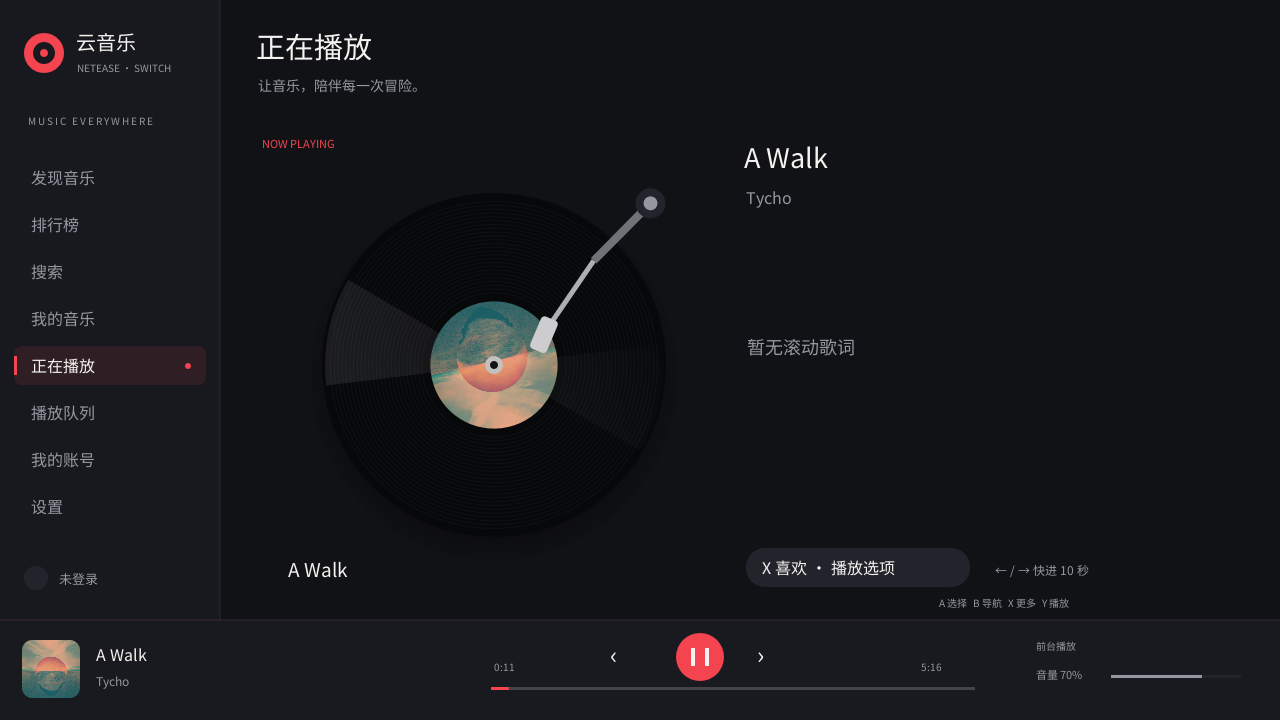
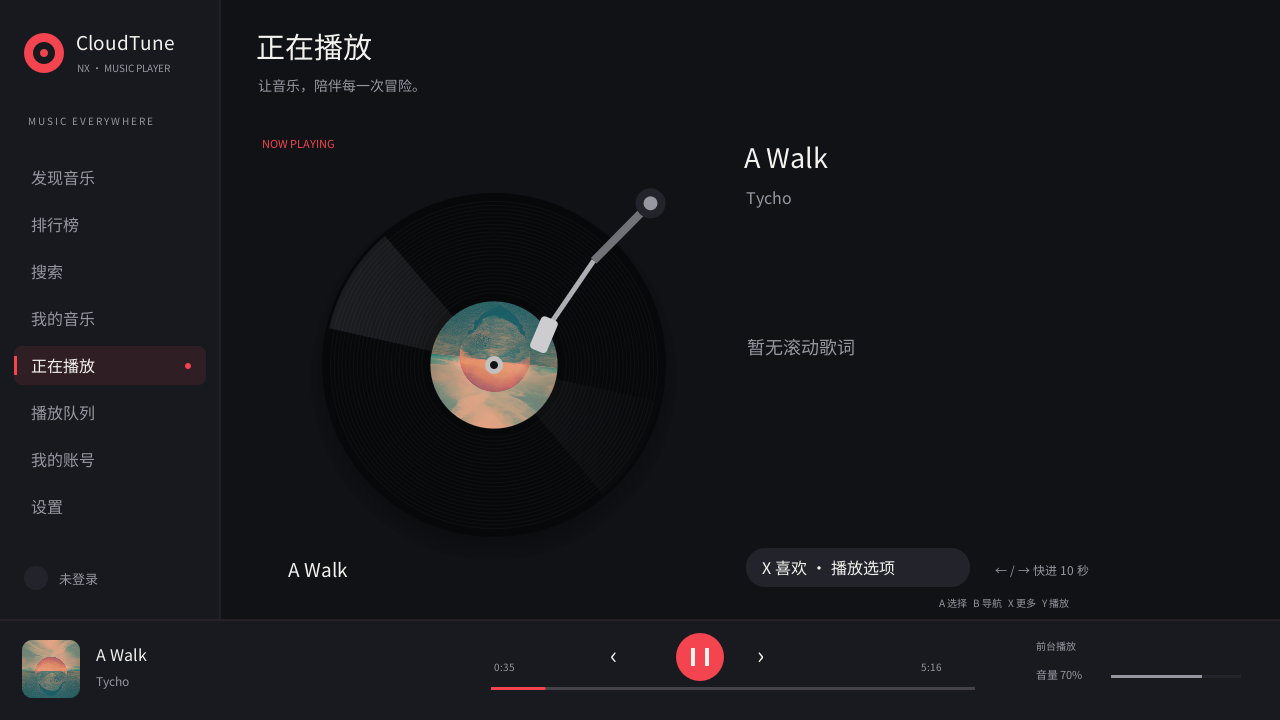
docs(release): record CloudTune validation and refresh public screenshots

Changed region(s): [[0.3125, 0.4278, 0.4375, 0.6111], [0.0625, 0.0306, 0.125, 0.1222]]

diff --git a/docs/VALIDATION.md b/docs/VALIDATION.md
@@ -8,6 +8,37 @@ retained as historical evidence; current filenames and commands are documented
 in [BUILDING.md](BUILDING.md). Renaming an artifact does not constitute a new
 hardware or emulator validation.
 
+## CloudTune NX publication build — 2026-10-20
+
+The renamed build passed Docker compilation for `CloudTune.nro`,
+`cloudtune-background.nsp` and `CloudTune.ovl`. Package validation checked
+the NRO/NSO headers, program ID, branding metadata and all three matching
+ELF build IDs. The host suite passed 5/5 CTest checks, independent XEAPI
+verification and generated local/throttled HTTPS MP3 integration checks.
+
+The actual NRO ran in Eden 0.2.1 on isolated virtual display `:121`.
+Discovery, the CloudTune branding, Chinese account confirmation and quality
+menus rendered correctly, including controller hints and system icons. The
+anonymous test profile contained no user credentials; the process exited
+normally. README images were captured separately from the same-source desktop
+client on `:122`. These checks do not establish physical-console BGM behavior.
+
+Local evidence is retained under `build/validation/`:
+
+- `cloudtune-switch-build.log`, `cloudtune-artifacts.json`
+- `cloudtune-host-tests.log`
+- `cloudtune-eden-start.log`, `cloudtune-eden-tested-SHA256SUMS`
+- `cloudtune-eden-start.png`, `cloudtune-eden-account-dialog.png`,
+  `cloudtune-eden-quality-dialog.png`
+
+Tested binary SHA-256:
+
+```text
+a23b2d33d8c469b36f99fb7470426b8605c9929069b93c188bc9893352f11ca4  CloudTune.nro
+9a61da5b5979bd0f112583ad5fdfc8edcd4aeb396d69f26e2075c084eb37c8da  cloudtune-background.nsp
+f087f944b5159639752e2b39dc03a1f5bf3e4499a4671750954903a0cd0de348  CloudTune.ovl
+```
+
 ## Toolchain and emulator baseline — 2026-10-20
 
 | Check | Result | Evidence |

diff --git a/docs/DEVELOPMENT_LOG.md b/docs/DEVELOPMENT_LOG.md
@@ -159,3 +159,24 @@ Hardware-only results remain unfilled in `docs/HARDWARE_TESTING.md`.
 - Earlier logs, binary names, hashes and screenshots retain their historical
   meaning. A renamed build must have its own validation and package manifest;
   the documentation change does not imply new runtime or hardware results.
+
+## 2026-10-20 · Publication checks and redistributable history
+
+- Rebuilt all three CloudTune NX components with the Docker toolchain and
+  checked package headers, program ID, NACP branding and matching ELF IDs.
+- Passed all five host tests, the independent XEAPI verifier and local/HTTPS
+  audio integration checks. The actual NRO passed anonymous startup and
+  Chinese native-dialog regression on isolated virtual display `:121`.
+- Refreshed public discovery and vinyl screenshots from the desktop client
+  on a separate anonymous virtual display. No user session data was copied.
+- Audited every historical blob before publishing. Two proprietary font
+  blobs from the reference baseline were replaced with the current licensed
+  DejaVu assets, and their license was added to the initial snapshot.
+- Preserved all ten existing development milestones, author/committer
+  identities, timestamps and messages. Only historical font assets and their
+  license changed; the current source tree remained identical. Commit IDs
+  changed as a consequence. Earlier local validation hashes retain their
+  original historical meaning.
+- Kept an ignored local backup bundle and commit map. The publication branch
+  cannot reach the two original font blobs; private runtime files, credentials
+  and generated artifacts are excluded from the source repository.

diff --git a/THIRD_PARTY_NOTICES.md b/THIRD_PARTY_NOTICES.md
@@ -43,6 +43,8 @@ hints generated by `scripts/make-controller-font.py`. Proprietary reference
 font assets have been replaced. The application's music canvas uses the OFL
 Noto font. Nintendo Switch systems expose their own shared fonts through
 libnx; the current release does not bundle those system font files.
+The published Git history also uses the licensed replacements in earlier
+snapshots and includes the DejaVu license from the initial commit.
 
 devkitPro, libnx, libcurl, mbedTLS, zlib, Mesa and SDL are supplied by the
 toolchain or host under their own licenses. Version information is retained
